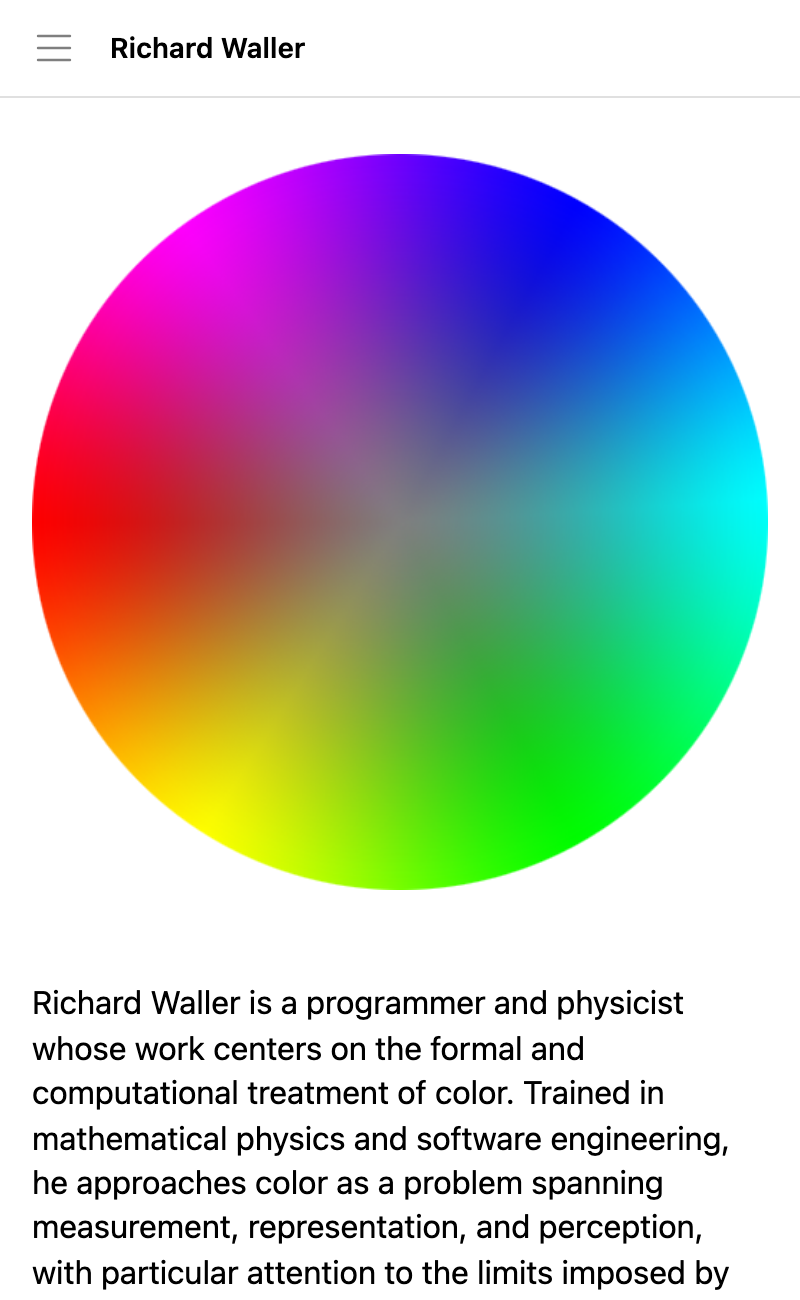
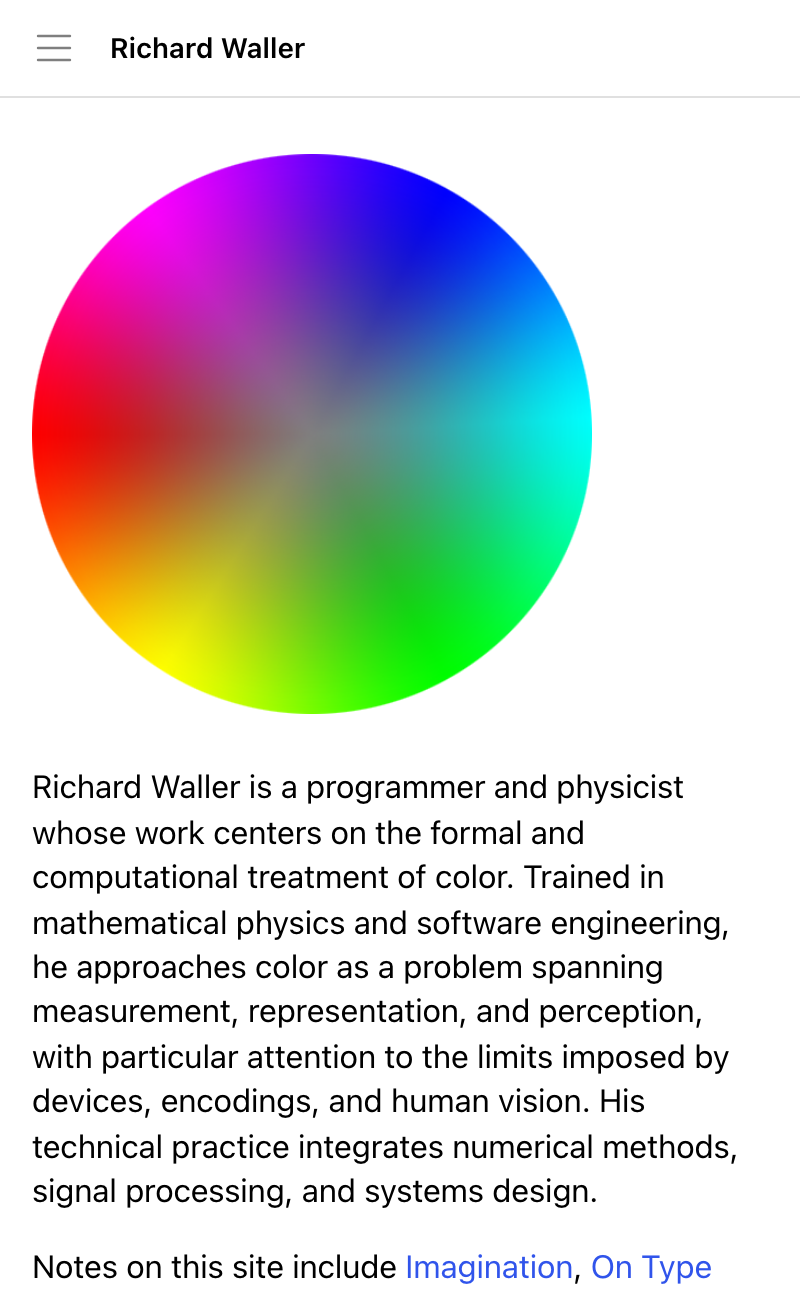
Fix hypertext nav, homepage, and wiki demo links

diff --git a/app/templates/source/hypertext/style.css b/app/templates/source/hypertext/style.css
@@ -48,6 +48,7 @@ html, body {
   color: var(--text-color); background: var(--background-color);
   font-family: var(--font-family); font-size: var(--font-size); line-height: var(--line-height);
   text-rendering: optimizelegibility;
+  -webkit-font-smoothing: antialiased;
   -moz-osx-font-smoothing: grayscale
 }
 
@@ -69,7 +70,7 @@ hr {
 }
 
 .entry {
-  overflow-wrap: anywhere;
+  overflow-wrap: break-word;
 }
 
 .entry-date {
@@ -341,7 +342,6 @@ pre code {
   max-width: 100%;
   max-height: calc(100vh - 5.75rem);
   height: auto;
-  width: auto;
   outline: none;
 }
 
@@ -406,11 +406,10 @@ figcaption {
   font-size: var(--heading-font-size);
   padding-bottom: 4px;
   border-bottom: 1px solid var(--border-color);
-font-weight: 550;
-line-height: var(--heading-line-height);
-margin-block-end: 8.8px;
-margin-block-start: 40px;
-font-weight: 700;
+  line-height: var(--heading-line-height);
+  margin-block-end: 8.8px;
+  margin-block-start: 40px;
+  font-weight: 700;
 }
 
 .entry h2, .entry h3 {font-weight: 600;}
@@ -423,7 +422,42 @@ font-weight: 700;
 }
 
 p:has(img) {
-  margin: 2.5em 0;
+  margin: 1.25em 0;
+}
+
+/* Image layout markers from the markdown converter, e.g. {>} */
+.clear {
+  width: 100%;
+  clear: both;
+  display: block;
+  height: 0;
+}
+
+.entry .right { float: right; }
+.entry .left { float: left; }
+
+.entry .right.inside {
+  margin: 0 0 1em 1.5em;
+  max-width: 46%;
+}
+
+.entry .left.inside {
+  margin: 0 1.5em 1em 0;
+  max-width: 46%;
+}
+
+.entry .right.inside img,
+.entry .left.inside img {
+  max-width: 100%;
+}
+
+@media (max-width: 768px) {
+  .entry .right,
+  .entry .left {
+    float: none;
+    max-width: 100%;
+    margin: 0 0 1em;
+  }
 }
 
 h4 {

diff --git a/app/templates/source/hypertext/script.js b/app/templates/source/hypertext/script.js
@@ -57,6 +57,26 @@ class PageTransitioner {
       );
     }
 
+    function isDocumentNavigation(link) {
+      if (!link || !link.href) return false;
+      try {
+        const url = new URL(link.href, window.location.href);
+        if (url.origin !== window.location.origin) return false;
+        const path = url.pathname.toLowerCase();
+        // Feeds and static files should not be loaded into <main>.
+        if (
+          /\.(rss|xml|atom|json|css|js|png|jpe?g|gif|webp|svg|pdf|zip|txt)$/i.test(
+            path
+          )
+        ) {
+          return false;
+        }
+        return true;
+      } catch {
+        return false;
+      }
+    }
+
     if (!history.state?.url) {
       history.replaceState(
         { url: window.location.href },
@@ -68,7 +88,11 @@ class PageTransitioner {
     // Hover prefetch: skip hashes
     document.addEventListener("mouseover", (e) => {
       const link = e.target.closest(this.linkSelector);
-      if (isInternal(link) && !isSameDocumentHash(link))
+      if (
+        isInternal(link) &&
+        isDocumentNavigation(link) &&
+        !isSameDocumentHash(link)
+      )
         this.prefetch(link.href);
     });
 
@@ -88,7 +112,7 @@ class PageTransitioner {
       // Let the browser handle same-page anchors (footnotes/backrefs)
       if (isSameDocumentHash(link)) return;
 
-      if (isInternal(link)) {
+      if (isInternal(link) && isDocumentNavigation(link)) {
         e.preventDefault();
         link.blur();
         this.navigate(link.href);

diff --git a/app/templates/source/hypertext/navigation-js.js b/app/templates/source/hypertext/navigation-js.js
@@ -289,7 +289,10 @@ class SidebarNavigation {
     folders.sort(cmp);
     files.sort(cmp);
 
-    [...folders, ...files].forEach((li) => ul.appendChild(li));
+    // Root pages must come before folders. Folders-first leaves those pages
+    // under the last directory, where they look like an expanded submenu.
+    const ordered = ul === this.root ? [...files, ...folders] : [...folders, ...files];
+    ordered.forEach((li) => ul.appendChild(li));
 
     folders.forEach((li) => {
       const sub = li.querySelector(":scope > ul.submenu");

diff --git a/app/templates/folders/config.js b/app/templates/folders/config.js
@@ -54,6 +54,10 @@ module.exports = {
         enabled: true,
         options: {}
       },
+      wikilinks: {
+        enabled: true,
+        options: {}
+      },
       zoom: {
         enabled: true,
         options: {}

diff --git a/app/templates/folders/hypertext/Home.md b/app/templates/folders/hypertext/Home.md
@@ -1,8 +1,10 @@
 Link: /
 
-![](./_TeintesSaturationCercle.png){width=400px}
+![](./_TeintesSaturationCercle.png){width=280px}
 
 Richard Waller is a programmer and physicist whose work centers on the formal and computational treatment of color. Trained in mathematical physics and software engineering, he approaches color as a problem spanning measurement, representation, and perception, with particular attention to the limits imposed by devices, encodings, and human vision. His technical practice integrates numerical methods, signal processing, and systems design.
+
+Notes on this site include [[Imagination]], [[On Type Safety]], [[Quasar]], and [[Rainbow]].
 
 # About
 

diff --git a/app/templates/folders/hypertext/Notes/Change Log.md b/app/templates/folders/hypertext/Notes/Change Log.md
@@ -1,0 +1,10 @@
+- 2025-07-15 · Notes on [[Quasar]]
+- 2025-05-03 · Color and type systems in [[On Type Safety]]
+- 2025-02-23 · Simulation notes for [[Vortex]]
+- 2025-02-19 · Network stack work on [[Prism]]
+- 2025-02-13 · Essay: [[Imagination]]
+- 2025-02-09 · Essay: [[Idleness]]
+- 2025-01-08 · [[Zero-Copy Dreams]]
+- 2025-01-08 · [[The Cost of Correctness]]
+- 2024-12-13 · [[The Performance Illusion]]
+- 2024-11-26 · Poem: [[Rainbow]]
